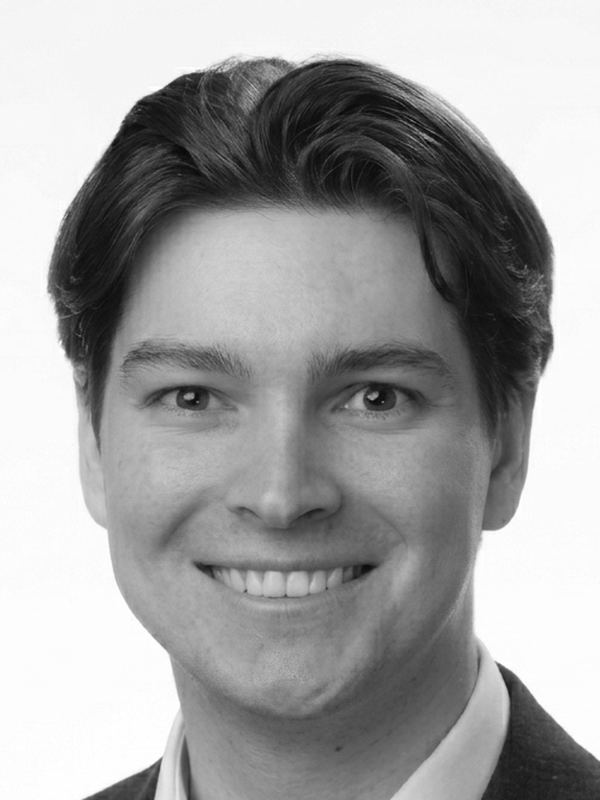
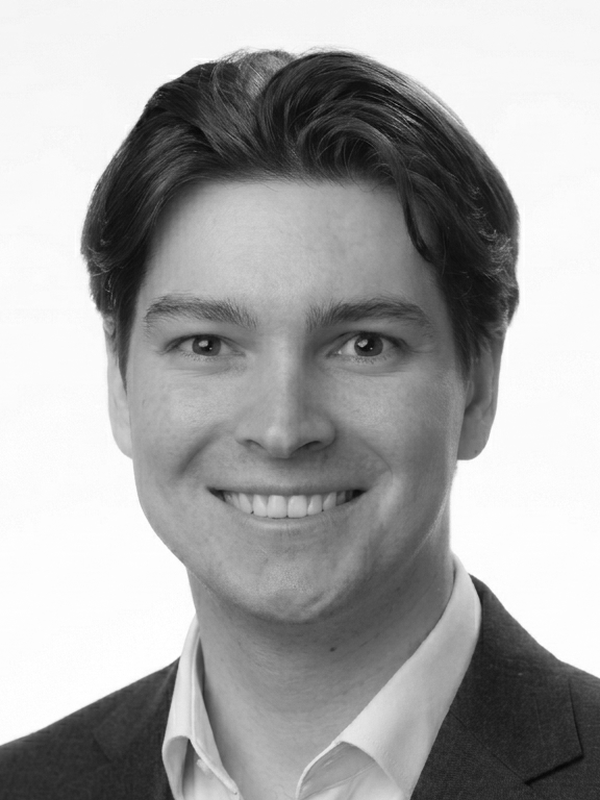
Normalise team photo sizing and fix card layout

diff --git a/about.html b/about.html
@@ -108,7 +108,7 @@
           <p class="text-on-surface-variant max-w-2xl leading-relaxed">A compact senior team with backgrounds in acquisitions, strategy, and operational transformation.</p>
         </div>
 
-        <div class="grid grid-cols-2 sm:grid-cols-4 gap-6 max-w-4xl mx-auto">
+        <div class="grid grid-cols-2 sm:grid-cols-4 gap-6 max-w-5xl mx-auto">
           <div class="bg-surface-container-high rounded-xl overflow-hidden border border-outline-variant/10 shadow-xl">
             <img src="magnus-bw.png" alt="Magnus Strøm" class="w-full aspect-[3/4] object-cover object-top" />
             <div class="p-5">
